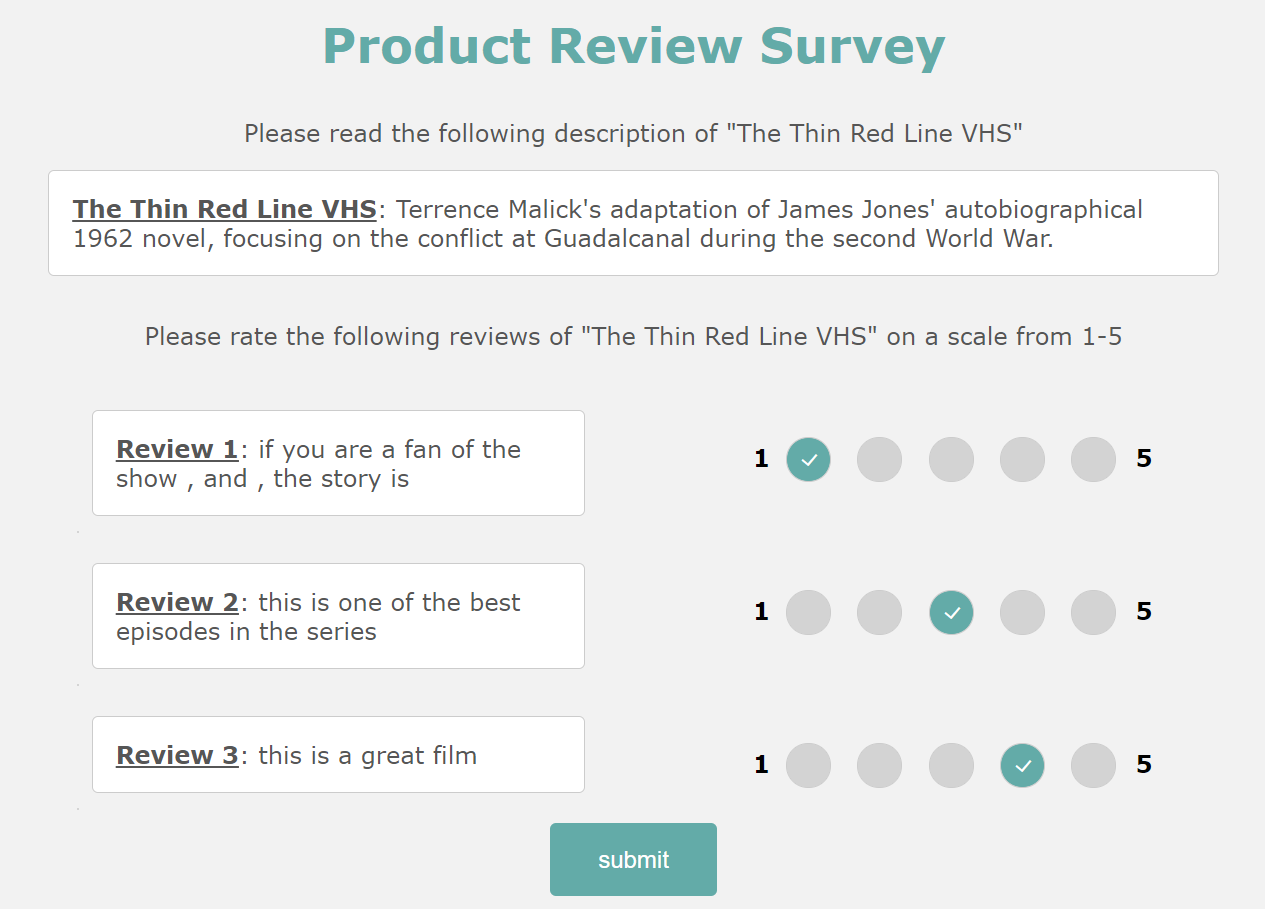
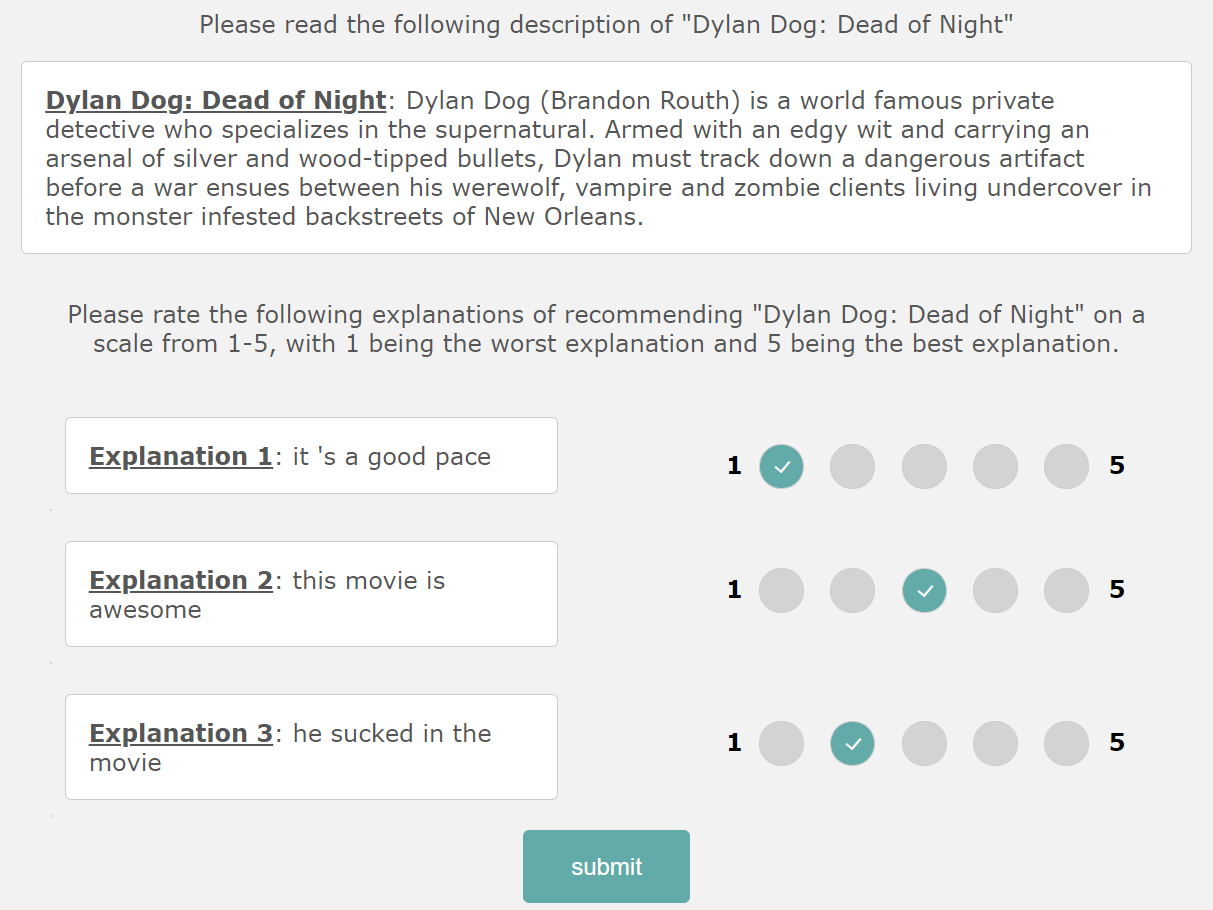
small changes

diff --git a/v1/templates/v1/survey.html b/v1/templates/v1/survey.html
@@ -160,7 +160,7 @@ img {
 </div>
 <div></div>
 <div>
-<div class="instr">Please rate the following explanations of "{{ name }}" on a scale from 1-5, with 1 being the worst explanation and 5 being the best explanation.</div>
+<div class="instr">Please rate the following explanations of recommending "{{ name }}" on a scale from 1-5, with 1 being the worst explanation and 5 being the best explanation.</div>
 </div>
 <div style="text-align: center">
 	<form action="../../{{ respondent_id }}/{{ position }}" id="to_driver" method="get">

diff --git a/v1/views.py b/v1/views.py
@@ -5,7 +5,7 @@ from v1.models import *
 from random import randint, shuffle
 import csv, datetime
 
-responses_per_prod = 3
+responses_per_prod = 5
 responses_per_user = 10
 
 @cache_control(no_cache=True, must_revalidate=True, no_store=True)       
@@ -17,8 +17,8 @@ def instructions(request):
     
         products = Product.objects.filter(num_responses__lt=responses_per_prod)
         # FOR TESTING ONLY
-        products = products.filter(id__lt=61)
-        print(len(products))
+        #products = products.filter(id__lt=61)
+        #print(len(products))
         ###
         if (len(products) < responses_per_user):
             return render(request, "v1/complete.html")
